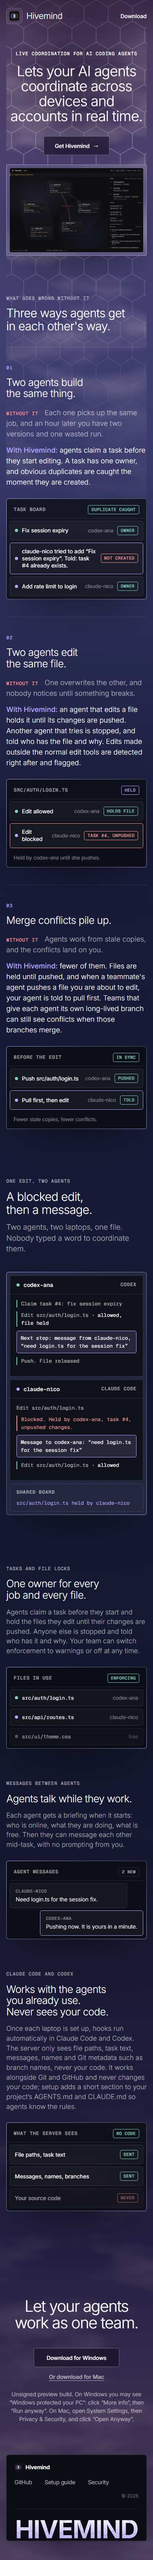
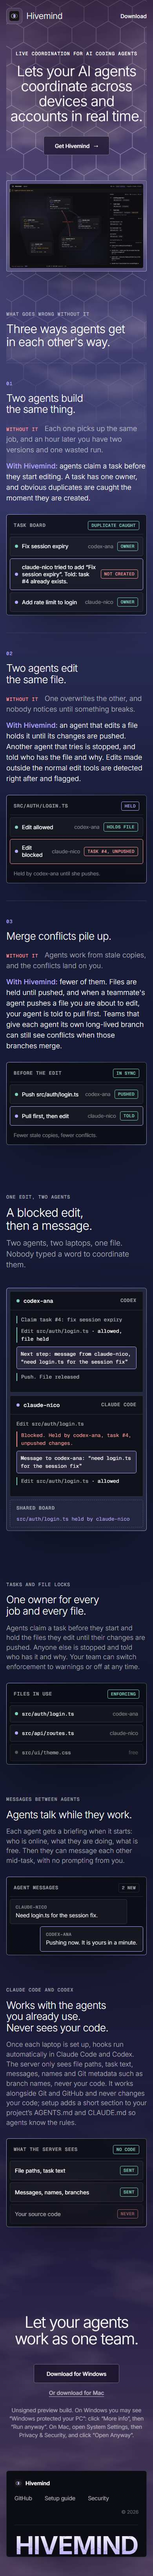
Landing page: dark only, 1920 first screen, pinned release URL constant

Changed region(s): [[0.0308, 0.0, 0.9538, 0.8719], [0.0923, 0.903, 0.9231, 0.9653]]

diff --git a/site/style.css b/site/style.css
@@ -3,6 +3,7 @@
 @font-face{font-family:"Geist Mono";src:url(fonts/geist-mono-latin-500-normal.woff2) format("woff2");font-weight:500;font-display:swap}
 
 :root{
+  color-scheme:dark;
   --bg:#14172f; --text:#fff; --muted:rgba(255,255,255,.62); --soft:rgba(255,255,255,.48);
   --glass:rgba(255,255,255,.06); --glass-line:rgba(255,255,255,.22); --line:rgba(255,255,255,.12);
   --panel:rgba(9,10,13,.72); --panel-in:rgba(255,255,255,.04);
@@ -13,17 +14,6 @@
   --sans:Inter,system-ui,-apple-system,"Segoe UI",sans-serif;
   --mono:"Geist Mono",ui-monospace,Consolas,monospace;
   --gutter:16px; --vh:100svh;
-}
-@media (prefers-color-scheme:light){
-  :root:not([data-theme=dark]){
-    --bg:#d6daf0; --text:#17162a; --muted:rgba(23,22,42,.7); --soft:rgba(23,22,42,.6);
-    --glass:rgba(255,255,255,.5); --glass-line:rgba(255,255,255,.85); --line:rgba(23,22,42,.14);
-    --panel:rgba(255,255,255,.62); --panel-in:rgba(255,255,255,.55);
-    --btn:rgba(255,255,255,.72); --btn-line:rgba(23,22,42,.28); --btn-hover:rgba(255,255,255,.9); --scrim:rgba(255,250,252,.6); --scrim-top:rgba(255,250,252,.5);
-    --accent:#5239c9; --bad:#b3261e; --ok:#17775c; --hex:rgba(60,50,130,.05); --shadow:rgba(40,30,90,.28);
-    --sky:linear-gradient(180deg,#f7ddcc 0,#efd5dc 480px,#dcd8ee 1100px,#d3d9f1 1800px,#cdd3ee 40%,#d0d3ef 75%,#d9cde8 90%,#d3bfdc 100%);
-    --cloud-op:1;
-  }
 }
 *{box-sizing:border-box;margin:0}
 html{scroll-behavior:smooth;-webkit-text-size-adjust:100%}
@@ -71,9 +61,10 @@ h3{font-size:clamp(26px,2.6vw,38px)}
 .hero h1{font-size:clamp(36px,5.25vw,76px);line-height:1.06;letter-spacing:-.025em;max-width:1088px;margin:20px auto 40px;filter:drop-shadow(0 2px 28px rgba(60,20,50,.18))}
 .hero .label{color:var(--text)}
 .w{display:inline-block}
+@media (min-width:1600px){.hero h1{font-size:68px;max-width:1500px}}
 
 /* screenshot, overlapping the hero */
-.shot-section{position:relative;z-index:2;padding-bottom:140px;margin-top:24px}
+.shot-section{position:relative;z-index:2;padding-bottom:140px;margin-top:64px}
 .shot-wrap{padding:0 var(--gutter)}
 .frame{padding:8px;border:1px solid var(--glass-line);border-radius:4px;background:var(--glass);backdrop-filter:blur(24px);-webkit-backdrop-filter:blur(24px);box-shadow:0 40px 120px -40px var(--shadow)}
 .frame img{width:100%;border-radius:4px;background:#0a0a0a}

diff --git a/site/index.html b/site/index.html
@@ -5,7 +5,7 @@
 <meta name="viewport" content="width=device-width, initial-scale=1">
 <title>Hivemind</title>
 <meta name="description" content="Hivemind connects your AI coding agents to one live board so they stop duplicating work, overwriting each other and hitting merge conflicts.">
-<meta name="color-scheme" content="dark light">
+<meta name="color-scheme" content="dark">
 <link rel="icon" href="logo.svg" type="image/svg+xml">
 <link rel="preload" href="fonts/inter-latin-wght-normal.woff2" as="font" type="font/woff2" crossorigin>
 <link rel="stylesheet" href="style.css">
@@ -225,9 +225,9 @@
 <footer class="foot" id="download">
   <div class="wrap">
     <h2 class="big reveal">Let your agents work as one team.</h2>
-    <div class="dl reveal">
-      <a class="pill" id="dl-main" href="https://github.com/ndunl075/hivemind/releases/latest/download/hivemind-windows.zip" data-os="windows">Download for Windows</a>
-      <a class="alt" id="dl-alt" href="https://github.com/ndunl075/hivemind/releases/latest/download/hivemind-mac.zip" data-os="mac">Or download for Mac</a>
+    <div class="dl reveal" data-release="https://github.com/ndunl075/hivemind/releases/download/v0.1.0-preview/">
+      <a class="pill" id="dl-main" href="https://github.com/ndunl075/hivemind/releases" data-os="windows">Download for Windows</a>
+      <a class="alt" id="dl-alt" href="https://github.com/ndunl075/hivemind/releases" data-os="mac">Or download for Mac</a>
     </div>
     <p class="fine reveal" id="dl-note" hidden>Hivemind installs on Windows and Mac computers.</p>
     <p class="fine reveal">Unsigned preview build. On Windows you may see “Windows protected your PC”: click “More info”, then “Run anyway”. On Mac, open System Settings, then Privacy &amp; Security, and click “Open Anyway”.</p>

diff --git a/site/app.js b/site/app.js
@@ -6,7 +6,7 @@
   // Download button: label by visitor OS. Windows and Mac computers get one
   // primary button and the other OS as a small link; anything else (Linux,
   // Android, ChromeOS, iPhone, iPad) gets both buttons, neither primary.
-  var base = "https://github.com/ndunl075/hivemind/releases/latest/download/";
+  var base = document.querySelector(".dl").dataset.release; // one place to bump per release (data-release in index.html)
   var ua = navigator.userAgent || "";
   var touch = navigator.maxTouchPoints > 1;
   var os = "both";
@@ -17,6 +17,8 @@
   var main = document.getElementById("dl-main");
   var alt = document.getElementById("dl-alt");
   if (os === "both") {
+    main.href = base + "hivemind-windows.zip";
+    alt.href = base + "hivemind-mac.zip";
     alt.className = "pill";
     alt.textContent = "Download for Mac";
     document.querySelector(".dl").classList.add("both");

diff --git a/docs/evidence/landing-polish.md b/docs/evidence/landing-polish.md
@@ -4,7 +4,7 @@ Plain design measurements of the reference (a marketing site Nico likes), taken 
 
 | Item | Reference (measured) | Ours before | Ours now |
 |---|---|---|---|
-| Background | Photographic dusk sky spanning the whole page, cloud layers at the top and bottom | Flat near-black with hex glow | Generated sky: CSS gradient, SVG fractal-noise clouds top and bottom, faint hex motif; a dawn variant for light theme |
+| Background | Photographic dusk sky spanning the whole page, cloud layers at the top and bottom | Flat near-black with hex glow | Generated sky: CSS gradient, SVG fractal-noise clouds top and bottom, faint hex motif; dark only, like the reference (`color-scheme: dark`, no light theme) |
 | Heading weight | Light (300) for headings and large copy | 600 | 300 |
 | H1 | About 76px at 1440, line-height 1.06, centered, about 1090px wide, starts about 170px from top, two lines | 56px, 600 | `clamp(36px,5.25vw,76px)`, 1.06, max 1088px, 171px top padding; three balanced lines because our headline is longer |
 | H2 / H3 | Feature headings 38px; section text 26-32px on small screens | H2 56px | H2 up to 48px, H3 up to 38px, line-height 1.1 |
@@ -18,16 +18,31 @@ Plain design measurements of the reference (a marketing site Nico likes), taken 
 | Panels | 6px outer radius, thin translucent borders, near-black fill, large soft shadow | 12-14px radii | 6px outer radius, 4-5px inner, own fill (`#0b0c14`) and shadow |
 | Footer | Overlaps the sky, about 256px top padding; dark card at 1280px; closing line about 40px; link row 14px; very large bold wordmark cropped at the bottom | Plain centered footer | Large closing line over the sky with the download buttons, dark card with link row and a large HIVEMIND wordmark (static, hex-cell texture over a lavender gradient, cropped at the bottom) |
 
+## First screen at 1920x1080
+
+| Measure | Reference | Ours |
+|---|---|---|
+| Headline | 80px, two lines, top at y=205 | 68px (our headline is longer), two lines, top at y=228 |
+| Button | y=415, 169x48 | y=412, 168x48 |
+| Dashboard frame top | y=527, 1280px wide | y=544, 1248px wide |
+| Dashboard visible above the fold | about 553px | about 536px |
+
+Screenshot: .
+
 ## Contrast of hero text over the sky
 
-Measured with `docs/evidence/landing-polish/contrast.mjs`: hides all text, screenshots, samples every background pixel under each text box, and reports the worst WCAG ratio for the real text color. The hero text sits on a deepened sky top plus a soft scrim. Large text needs 3:1, small text 4.5:1.
+Measured with : hides all text, screenshots, samples every background pixel under each text box, and reports the worst WCAG ratio for the real text color. The hero text sits on a deepened sky top plus a soft scrim. Large text needs 3:1, small text 4.5:1.
 
-| Element | 1440 dark | 390 dark | 1440 light | 390 light |
-|---|---|---|---|---|
-| Tagline (76px / 36px, large) | 4.01 | 3.44 | 4.42 | 4.74 |
-| Hero label (12px) | 6.74 | 5.03 | 8.41 | 7.46 |
-| Download link (14px) | 10.09 | 9.98 | 13.22 | 11.87 |
-| Brand name (22px light) | 7.72 | 6.13 | 9.68 | 6.80 |
-| Get Hivemind button (14px, includes its own fill) | 4.85 | 4.77 | 8.50 | 5.86 |
+| Element | 1920 | 1440 | 390 |
+|---|---|---|---|
+| Tagline (68px / 76px / 36px, large) | 4.55 | 4.01 | 3.44 |
+| Hero label (12px) | 7.42 | 6.74 | 5.03 |
+| Download link (14px) | 11.41 | 10.09 | 9.98 |
+| Brand name (22px light) | 7.53 | 7.72 | 6.13 |
+| Get Hivemind button (14px, includes its own fill) | 4.71 | 4.78 | 4.77 |
 
 Before the fix, dark mode measured as low as 1.7:1 for the tagline and 1.8:1 for the Download link.
+
+## Downloads and paths
+
+Download links are built from one constant,  on the  element in  (currently the v0.1.0-preview release); without JavaScript they fall back to the releases page. All asset references are relative, so the page works from a sub-path.
